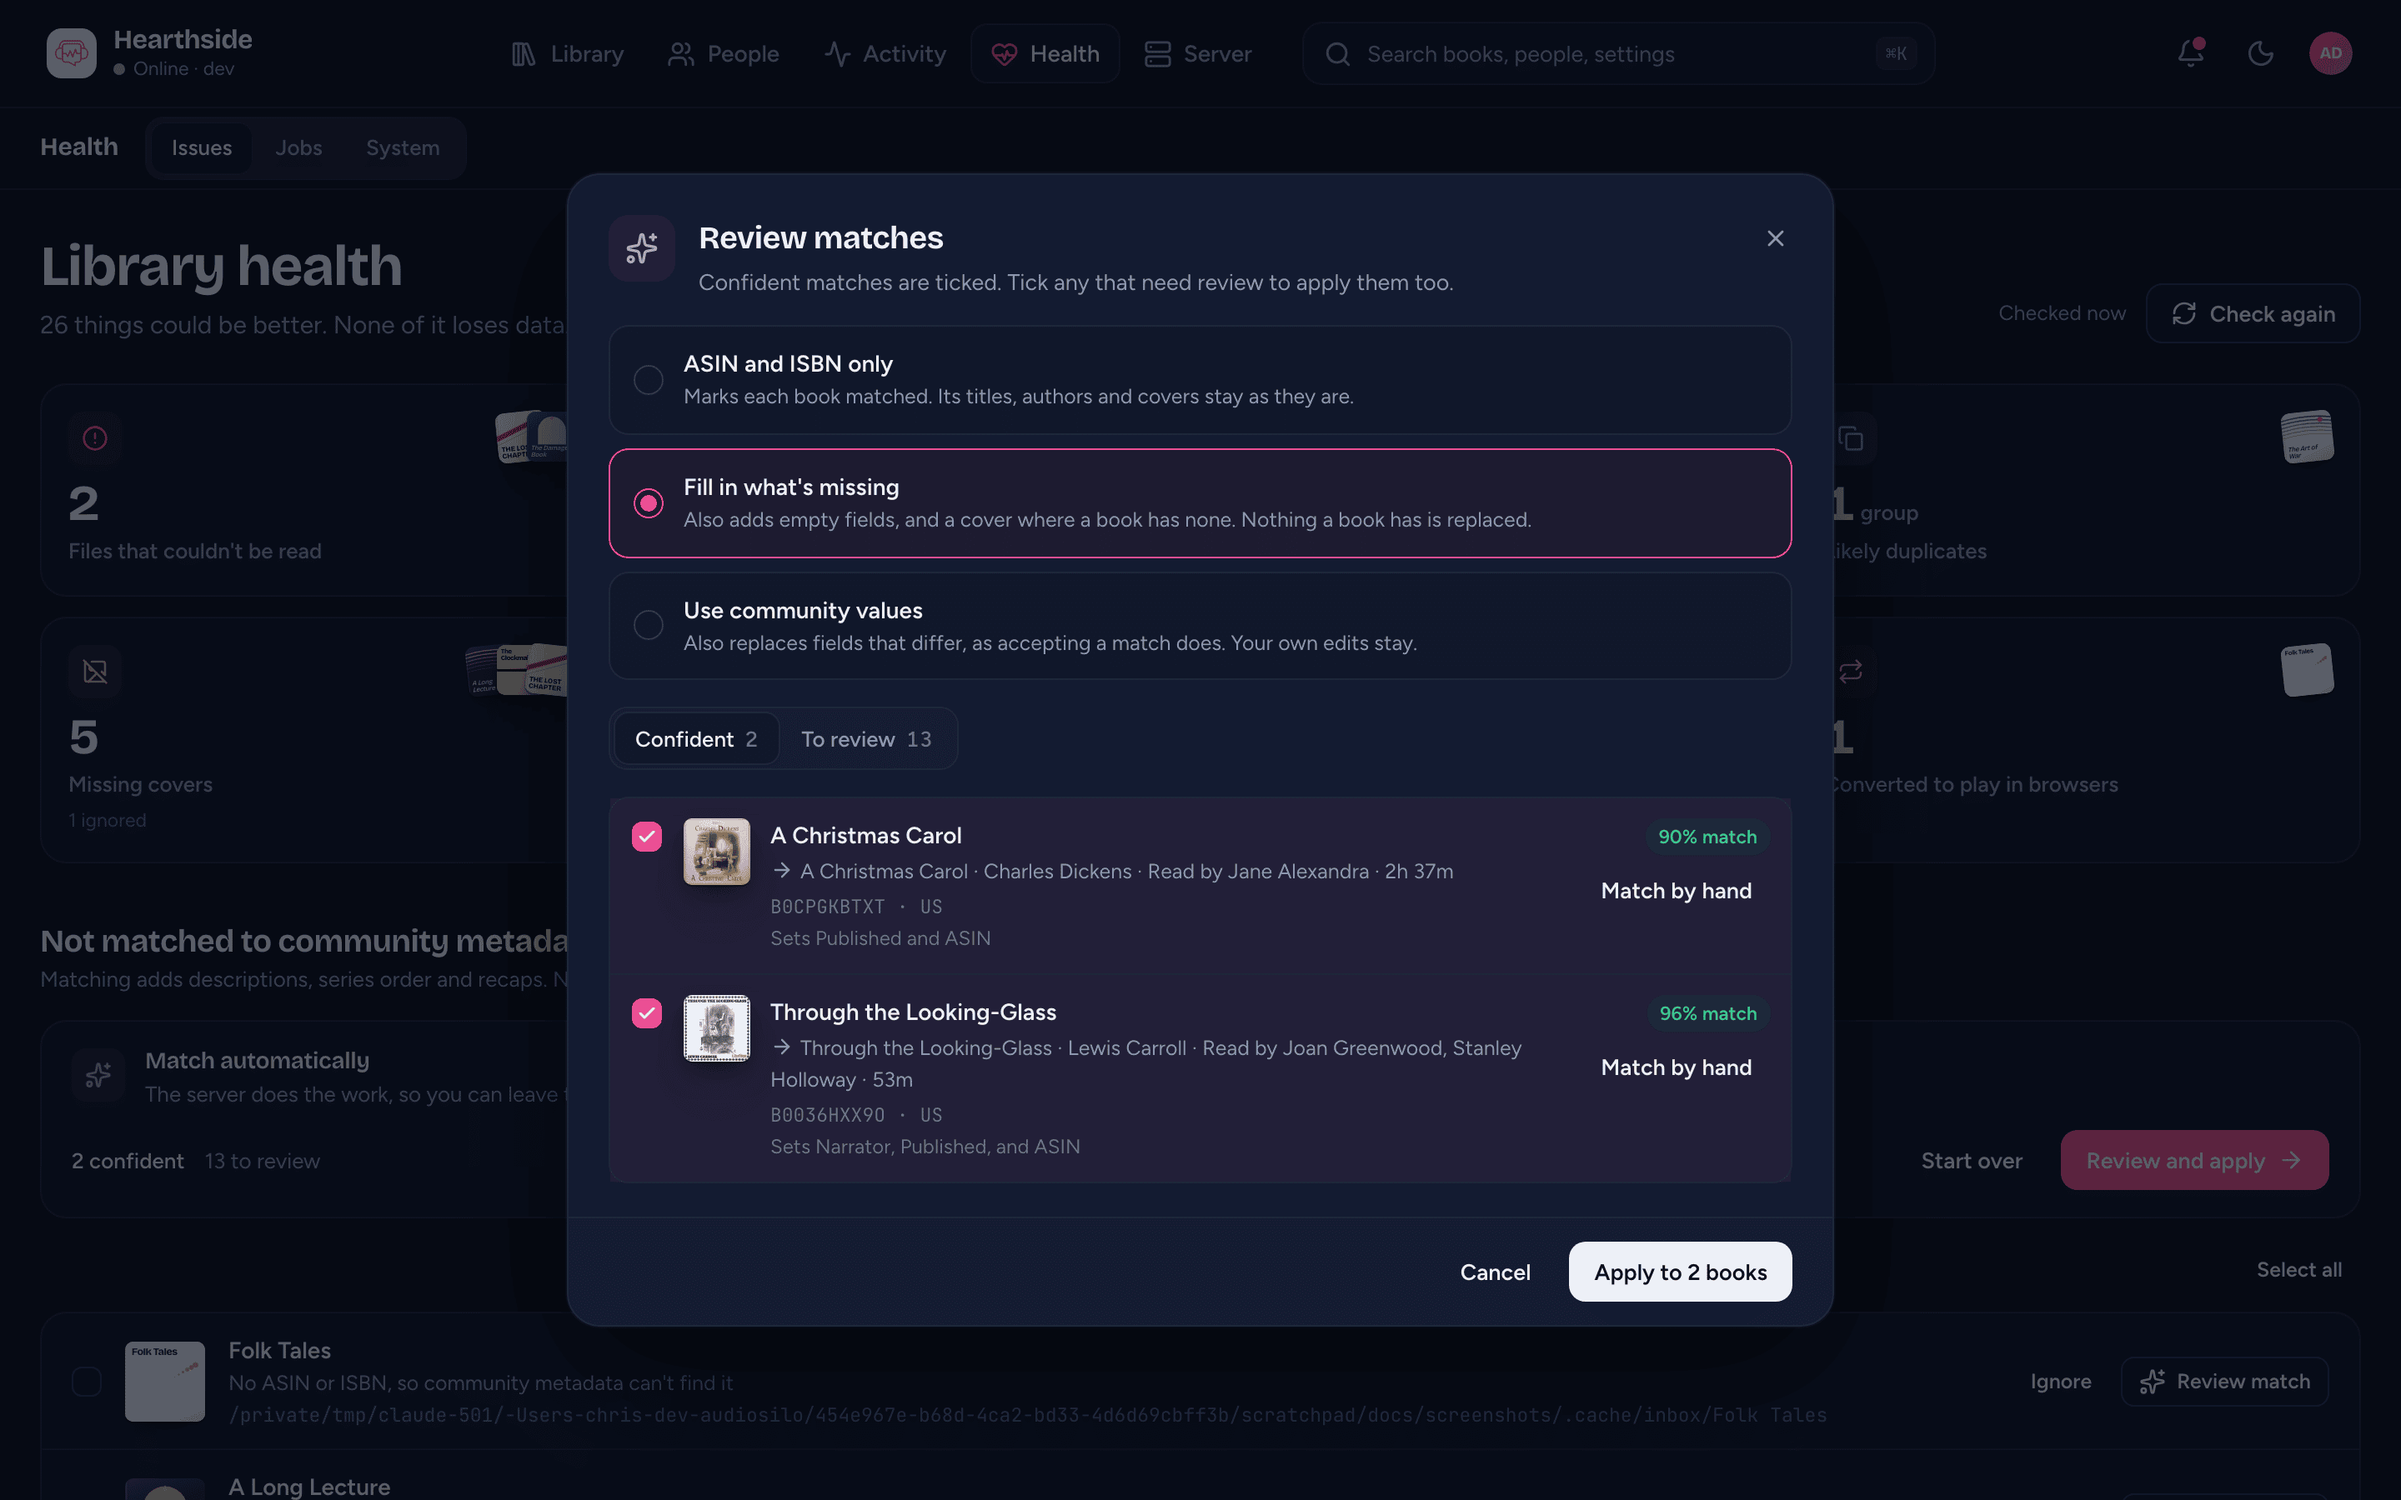
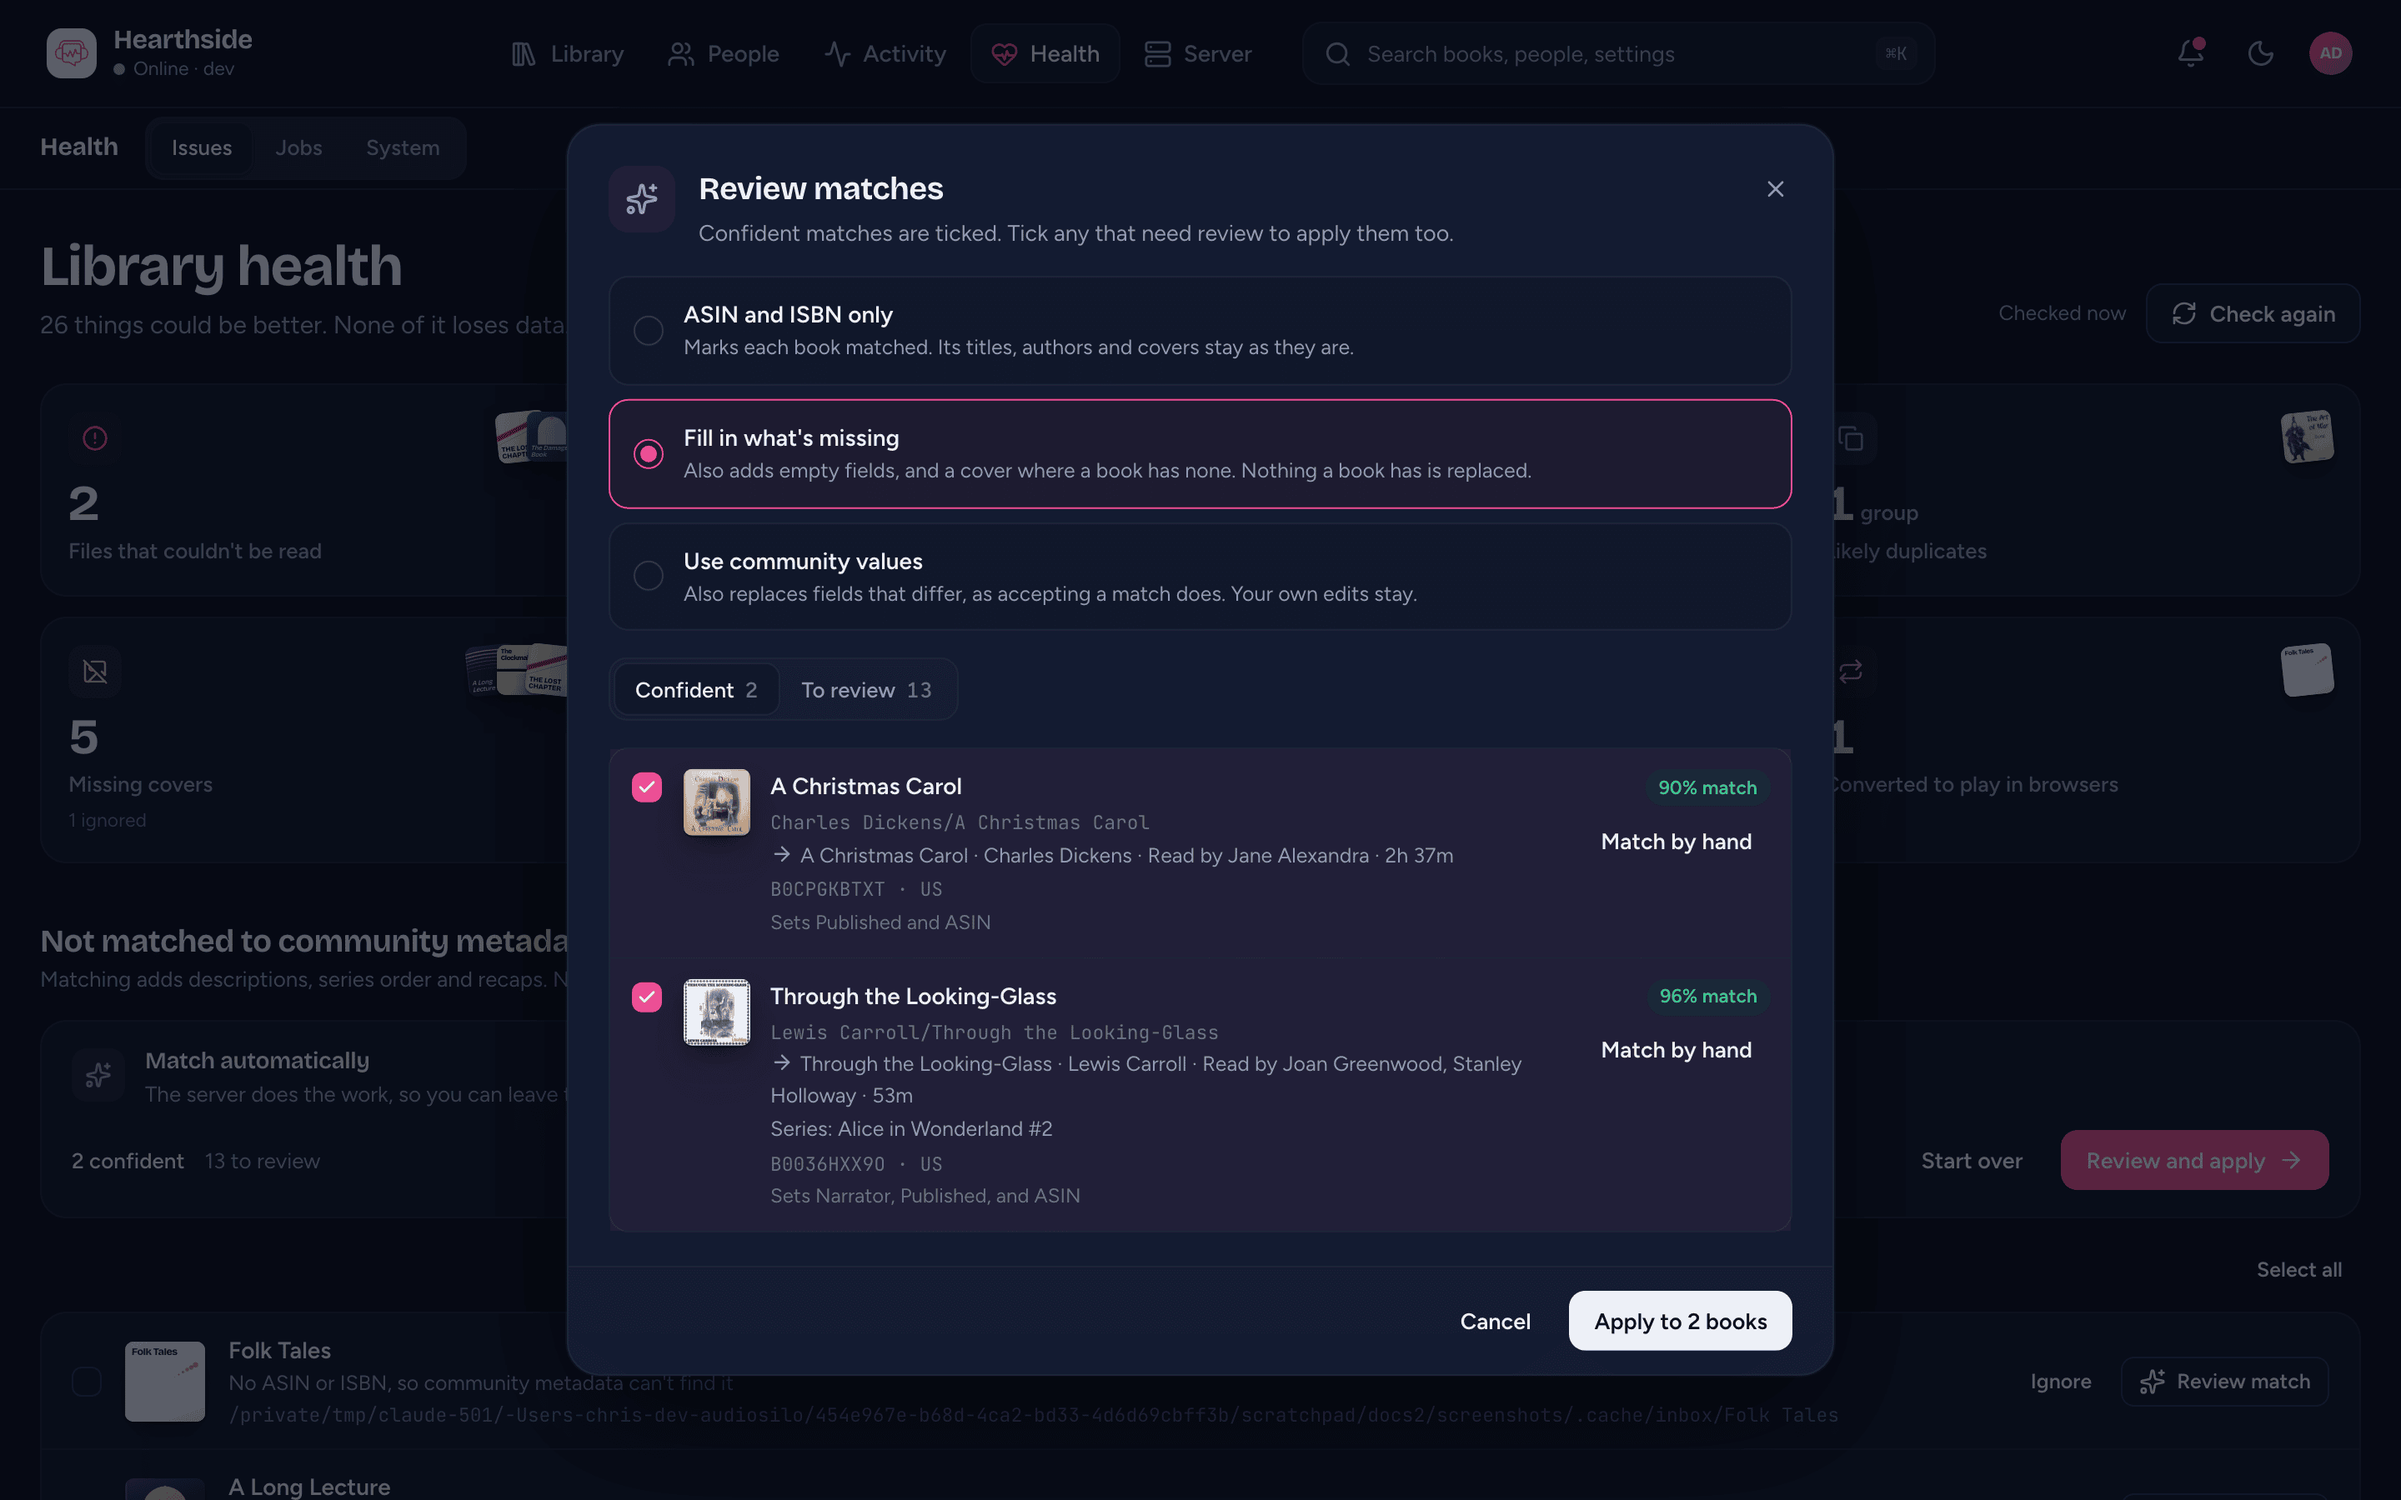
Match review: each book's path and the match's series

diff --git a/docs-users/admin/health.md b/docs-users/admin/health.md
@@ -98,11 +98,16 @@ what it found and apply it.
    Under each book the dialog says what your choice writes, for example "Sets
    Narrator, Published, and ASIN". Fields you edited yourself are never
    replaced, and a series number is only set beside the series it belongs to.
-4. **Confident** matches are ticked; untick any you don't want. **To review**
+4. Each book shows its path in the library (hover it for the whole path on
+   disk) and, under an arrow, the community match: its title, authors,
+   narrators and length, the series it belongs to with its position ("Series:
+   Alice in Wonderland #2"), and the ASIN with its store. A match to the wrong
+   book of a series, or to another series altogether, shows at a glance.
+5. **Confident** matches are ticked; untick any you don't want. **To review**
    lists matches that scored lower, or only just ahead of another work: tick
    the ones that are right, or click **Match by hand** to open that book's
    match dialog. **Not found** and **Not checked** list the rest.
-5. Click **Apply to *N* books**. The server applies them in the background
+6. Click **Apply to *N* books**. The server applies them in the background
    ("Applying *N* of *M* matches"). **Stop** finishes the books in hand and
    leaves the rest to apply later from the same review.
 
